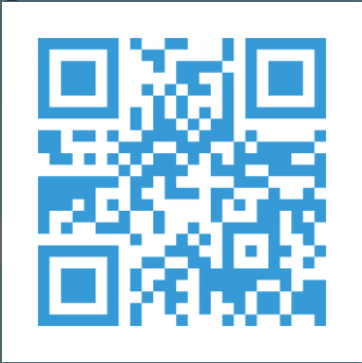
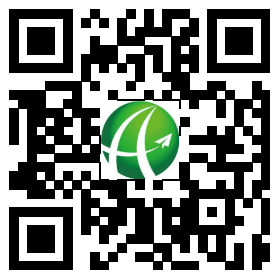
更新二维码资源

diff --git a/README.md b/README.md
@@ -67,4 +67,4 @@ iOS_3D_Demo
 
 ![twoDemision](https://raw.githubusercontent.com/tabsong/iOS_3D_Demo/master/ResourcesBed/twoDimensionCode.png)
 
-* `手机上打开地址:<http://fir.im/zFe>`
+* `手机上打开地址:<http://fir.im/amap3d>`
